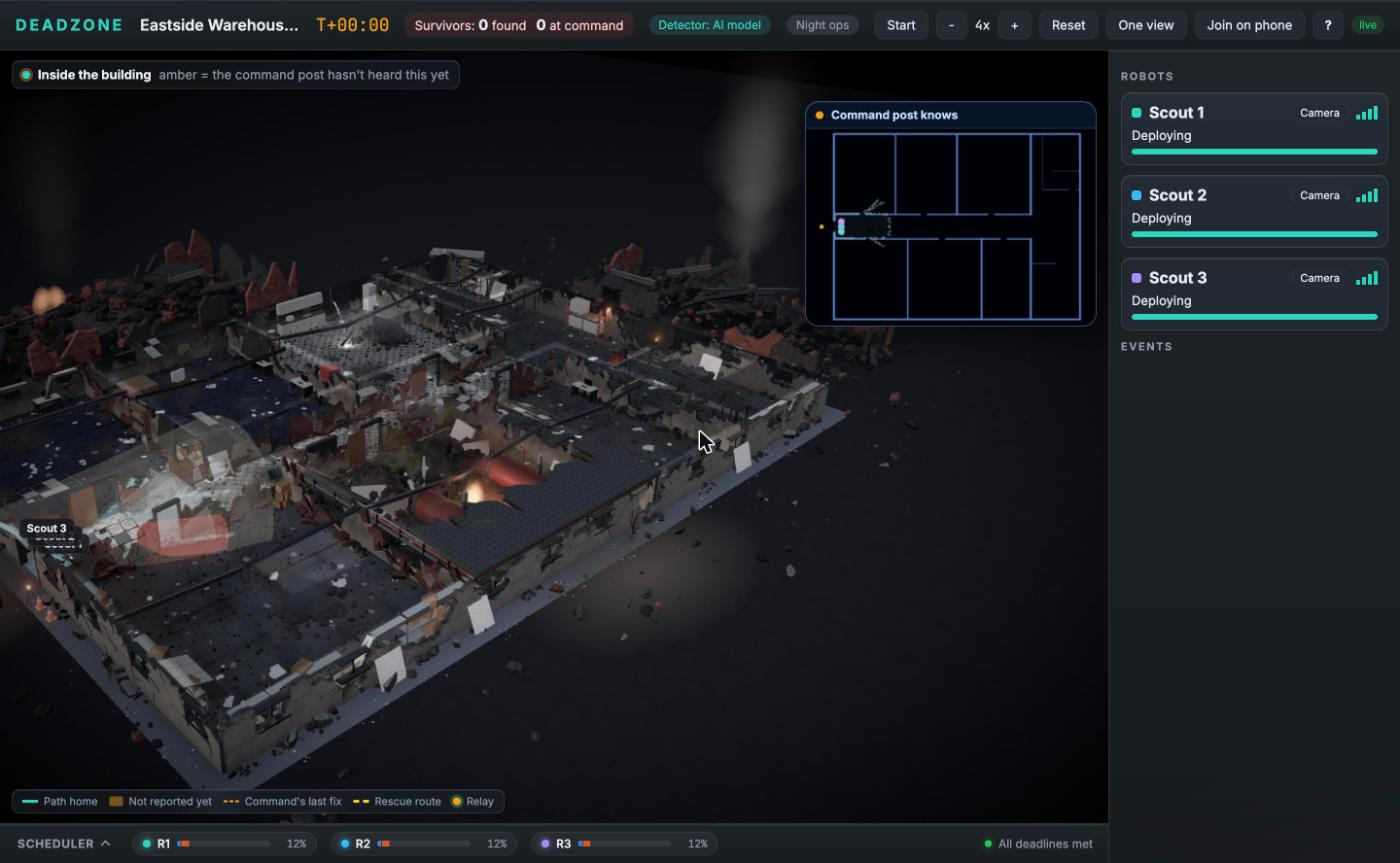
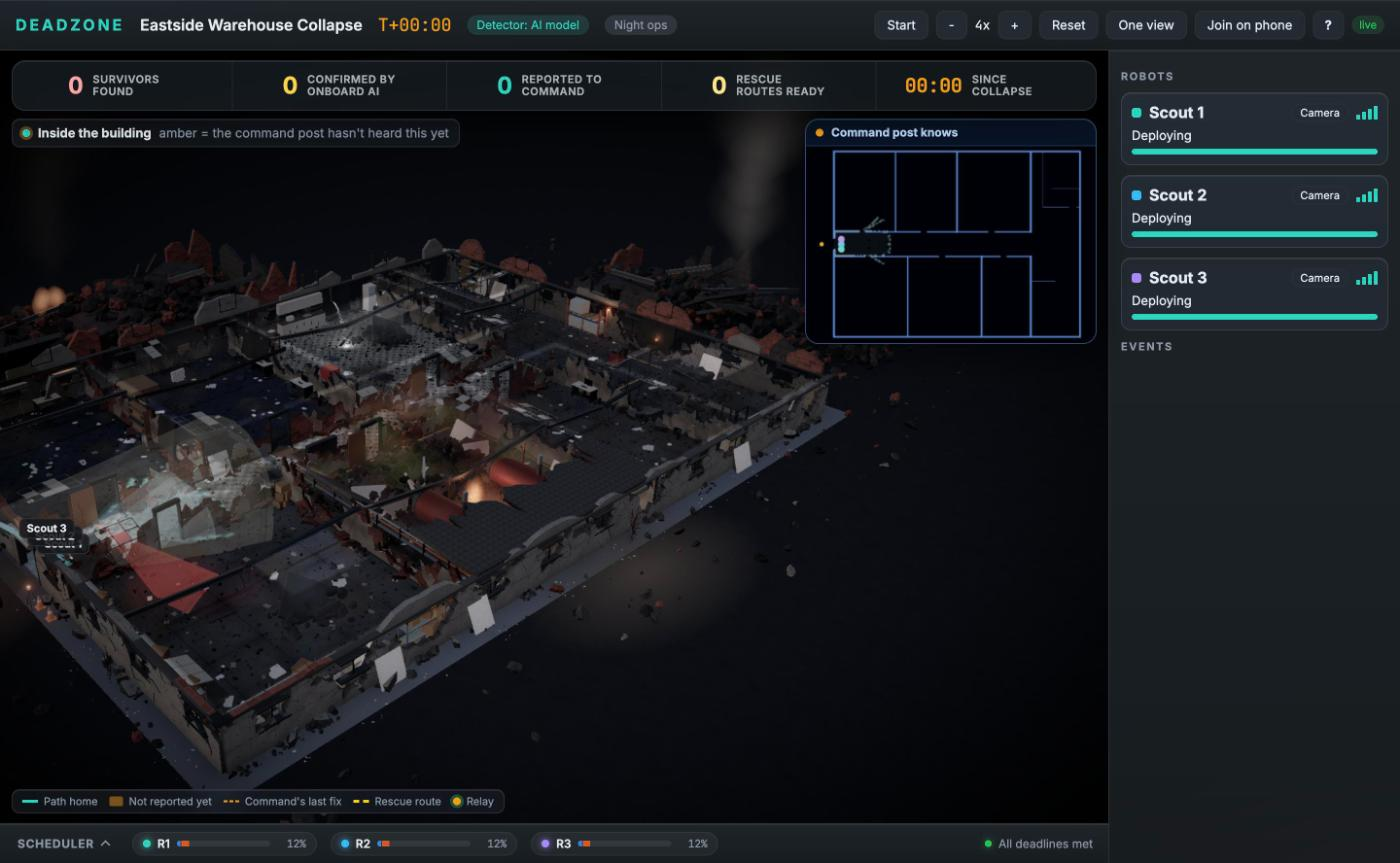
Exterior shell: upper-storey stubs, floor-slab lip, pancaked corner slab, street

diff --git a/web/src/three/Shell.jsx b/web/src/three/Shell.jsx
@@ -1,0 +1,142 @@
+import { useMemo } from 'react'
+import * as THREE from 'three'
+import { WALL_H, w2t } from './util'
+import { materials, tiledSet } from './textures'
+
+// The exterior shell: what tells you this was a bigger building. On top of the ground
+// floor's outer walls stand the stubs of an upper storey (jagged brick and concrete, tallest
+// at the far corners so the camera's view into the rooms from the south-west stays open), a
+// floor slab lip where the upper floor sheared off, one pancaked upper slab hanging off the
+// north-west corner onto the ruins outside, window frames still in the stubs, and a street
+// west of the lot. Visual only, outside the footprint or above WALL_H: the simulated ground
+// floor never changes. Derived from fp.size, so generated buildings get it too.
+
+function rng(seed) {
+  let s = (seed % 2147483647) || 1
+  return () => (s = (s * 16807) % 2147483647) / 2147483647
+}
+
+let M = null
+function mats() {
+  if (M) return M
+  const t = materials()
+  M = {
+    brick: new THREE.MeshStandardMaterial({ ...tiledSet(t.brick, 0.5, 0.5), color: '#c4b8ae', roughness: 0.93 }),
+    concrete: new THREE.MeshStandardMaterial({ ...tiledSet(t.concrete, 0.5, 0.5), color: '#b9b6b0', roughness: 0.9 }),
+    cut: new THREE.MeshStandardMaterial({ ...tiledSet(t.rubble, 0.7, 0.7), color: '#c6c0b6', roughness: 1 }),
+    slab: new THREE.MeshStandardMaterial({ ...tiledSet(t.rubble, 0.4, 0.4), color: '#cbc5bb', roughness: 0.93 }),
+    frame: new THREE.MeshStandardMaterial({ color: '#2b3036', metalness: 0.6, roughness: 0.45 }),
+    rebar: new THREE.MeshStandardMaterial({ color: '#7c3f1d', metalness: 0.6, roughness: 0.75 }),
+    line: new THREE.MeshStandardMaterial({ color: '#d9d9d4', roughness: 0.8 }),
+    kerb: new THREE.MeshStandardMaterial({ color: '#8d8f90', roughness: 0.9 }),
+  }
+  return M
+}
+
+// A storey stub: an extruded wall with a jagged top, in a wall-local frame (x along, y up).
+function stubGeometry(len, hMin, hMax, thick, seed) {
+  const r = rng(seed)
+  const s = new THREE.Shape()
+  s.moveTo(-len / 2, 0)
+  s.lineTo(len / 2, 0)
+  const n = Math.max(3, Math.round(len * 1.5))
+  let h = hMin + r() * (hMax - hMin)
+  for (let k = 0; k <= n; k++) {
+    const x = len / 2 - (k / n) * len
+    h = Math.max(hMin * 0.4, Math.min(hMax, h + (r() - 0.5) * 0.5))
+    s.lineTo(x, k === 0 || k === n ? Math.min(h, hMin * 0.6) : h)
+  }
+  s.lineTo(-len / 2, 0)
+  const g = new THREE.ExtrudeGeometry(s, { depth: thick, bevelEnabled: false })
+  g.translate(0, 0, -thick / 2)
+  return g
+}
+
+// Stub runs along each outer wall. Far sides (north, east) stand tall; the near sides keep low
+// so the overview still looks into the rooms.
+function stubRuns(W, H) {
+  const sides = [
+    { a: [0, H], b: [W, H], hMin: 0.9, hMax: 2.0, seed: 1 },   // north
+    { a: [W, 0], b: [W, H], hMin: 0.8, hMax: 1.8, seed: 2 },   // east
+    { a: [0, 0], b: [W, 0], hMin: 0.2, hMax: 0.7, seed: 3 },   // south, low
+    { a: [0, 0], b: [0, H], hMin: 0.2, hMax: 0.6, seed: 4 },   // west, low
+  ]
+  const runs = []
+  for (const sd of sides) {
+    const r = rng(sd.seed * 977)
+    const len = Math.hypot(sd.b[0] - sd.a[0], sd.b[1] - sd.a[1])
+    const ang = Math.atan2(sd.b[1] - sd.a[1], sd.b[0] - sd.a[0])
+    let t = 0.4 + r() * 1.5
+    while (t < len - 1) {
+      const seg = Math.min(len - 1 - t, 2 + r() * 4)
+      const gap = 0.6 + r() * 2.4
+      const corner = Math.min(t, len - (t + seg)) < 3 // corners survive taller
+      runs.push({ pos: w2t(sd.a[0] + (sd.b[0] - sd.a[0]) * ((t + seg / 2) / len), sd.a[1] + (sd.b[1] - sd.a[1]) * ((t + seg / 2) / len), WALL_H + 0.024),
+        ang, len: seg, hMin: sd.hMin * (corner ? 1.4 : 1), hMax: sd.hMax * (corner ? 1.4 : 1), brick: r() < 0.5, seed: Math.round(t * 100) + sd.seed })
+      t += seg + gap
+    }
+  }
+  return runs
+}
+
+export default function ExteriorShell({ fp }) {
+  const [W, H] = fp.size
+  const m = mats()
+  const runs = useMemo(() => stubRuns(W, H), [W, H])
+  const geoms = useMemo(() => runs.map((s) => stubGeometry(s.len, s.hMin, s.hMax, 0.26, s.seed)), [runs])
+  const r = useMemo(() => rng(W * 31 + H), [W, H])
+  // the pancaked upper slab: its inner edge on the north-west corner wall top, sloping down
+  // outward onto the ruins north of the building
+  const slabLen = 7
+  const slabAng = 0.55
+  return (
+    <group>
+      {/* floor-slab lip: where the upper floor sheared off, a thick edge all round */}
+      {[[W / 2, H, W + 0.6, 0], [W / 2, 0, W + 0.6, 0], [0, H / 2, H, Math.PI / 2], [W, H / 2, H, Math.PI / 2]].map(([x, y, len, rot], i) => (
+        <mesh key={i} position={w2t(x, y, WALL_H + 0.06)} rotation={[0, rot, 0]} material={m.slab} receiveShadow>
+          <boxGeometry args={[len, 0.09, 0.34]} />
+        </mesh>
+      ))}
+      {runs.map((s, i) => (
+        <group key={i} position={s.pos} rotation={[0, s.ang, 0]}>
+          <mesh geometry={geoms[i]} material={s.brick ? m.brick : m.concrete} castShadow receiveShadow />
+          {/* rebar out of the broken top */}
+          {[-0.3, 0.25].map((dx, k) => (
+            <mesh key={k} position={[dx * s.len, s.hMin * 0.8 + k * 0.2, 0]} rotation={[0.3 * (k ? -1 : 1), 0, 0.5 * (k ? 1 : -1)]} material={m.rebar}>
+              <cylinderGeometry args={[0.012, 0.012, 0.6, 5]} />
+            </mesh>
+          ))}
+          {/* a window frame that survived in the taller stubs */}
+          {s.hMax > 1.5 && s.len > 3 && (
+            <group position={[0, 0.5, 0]}>
+              {[-0.6, 0.6].map((dx) => <mesh key={dx} position={[dx, 0.45, 0]} material={m.frame}><boxGeometry args={[0.06, 0.9, 0.3]} /></mesh>)}
+              <mesh position={[0, 0, 0]} material={m.frame}><boxGeometry args={[1.26, 0.06, 0.3]} /></mesh>
+            </group>
+          )}
+        </group>
+      ))}
+      {/* pancaked upper slab off the north-west corner */}
+      <group position={w2t(3.5, H - 0.2, WALL_H + 0.9)} rotation={[-slabAng, 0, 0]}>
+        <mesh position={[0, 0, slabLen / 2 - 0.6]} material={m.slab} castShadow receiveShadow>
+          <boxGeometry args={[6.5, 0.26, slabLen]} />
+        </mesh>
+        {[-2.6, -1.1, 0.4, 1.9].map((dx, i) => (
+          <mesh key={i} position={[dx, -0.05, slabLen - 0.3]} rotation={[0.4 + i * 0.2, 0, (i % 2 ? 1 : -1) * 0.4]} material={m.rebar}>
+            <cylinderGeometry args={[0.012, 0.012, 0.8, 5]} />
+          </mesh>
+        ))}
+      </group>
+      {/* the street west of the lot: kerbs and a dashed centre line */}
+      {[-13.2, -21.2].map((x) => (
+        <mesh key={x} position={w2t(x, H / 2, 0.06)} material={m.kerb} receiveShadow>
+          <boxGeometry args={[0.3, 0.12, H + 40]} />
+        </mesh>
+      ))}
+      {Array.from({ length: Math.round((H + 36) / 3) }, (_, i) => (
+        <mesh key={i} position={w2t(-17.2, -18 + i * 3 + (r() - 0.5) * 0.1, 0.004)} rotation={[-Math.PI / 2, 0, 0]} material={m.line}>
+          <planeGeometry args={[0.14, 1.5]} />
+        </mesh>
+      ))}
+    </group>
+  )
+}

diff --git a/web/src/three/Building.jsx b/web/src/three/Building.jsx
@@ -12,6 +12,7 @@ import FracturedWalls from './Fracture'
 import { AtmosphereLive, AtmosphereStatic } from './Atmosphere'
 import { LitterStatic, ScannedDebris } from './Litter'
 import { CeilingLive, CeilingStatic } from './Ceiling'
+import ExteriorShell from './Shell'
 
 // Thermal palette for the robot's-eye view: everything cold reads as deep blue.
 const COLD = { floor: '#070b1f', wall: '#1d3a8a', wallGlow: '#0b1d5c' }
@@ -310,6 +311,7 @@ export default function Building({ thermal = false, blueprint = false, props = t
         {damage && <LitterStatic fp={fp} perf={perf} />}
         {damage && <ScannedDebris fp={fp} perf={perf} outside={!lite} />}
         {damage && <CeilingStatic fp={fp} />}
+        {damage && !lite && <ExteriorShell fp={fp} />}
       </Baked>
       {damage && <CollapseLive fp={fp} dust={!perf && !lite} />}
       {damage && !perf && !lite && <DisasterLive fp={fp} />}

diff --git a/docs/team/history/yusuf.md b/docs/team/history/yusuf.md
@@ -3,7 +3,7 @@
 Owns `web/`. Only Yusuf's sessions edit this file.
 
 ## Now
-- **Working on:** `p3/collapse-geometry`, final stretch per PLAN.md 12:20 AM: captions + judge labels + Rescue Status strip done; next earthquake v2 visuals + banners, generic props for unknown rooms, exterior shell. Dropped tonight: multi-story interior, voice UI, clinic map. PRs: #85 merged, #93 open (steps 2-6).
+- **Working on:** `p3/collapse-geometry`: Rayan's collapse list and the 12:20 AM final-stretch list are built (walls, ceiling, debris, night atmosphere, camera, rover loader, captions, judge labels, Rescue Status strip, earthquake v2, banners, generic props, exterior shell). PR #93 open for all of it after #85. Dropped: multi-story interior, voice UI, clinic map.
 - **Works on main:** M1–M8, replay, UI Steps 0–1 calm pass (#10, #16, #18, #20, #23, #24, #26, #27, #31, #35).
 - **In flight (not merged):** `p3/ai-scope`:
   - AI detection cards (frosted glass): Reality on `survivor_found` ("Person · 100%", "no link, holding the report") and `hotspot_rejected` (faded "Not a person · 0% · rejected"); Command on `survivor_reported` with the delivered record's `crop`. Image `/crops/<crop>`, thermal placeholder until the backend serves it.
@@ -16,6 +16,12 @@ Owns `web/`. Only Yusuf's sessions edit this file.
   - Truth survivors and decoys show only on the Reality pane (T). Never on Command. The UI renders actual robot state and never assumes a dispatch, fault or resume made a robot act.
 
 ## Log
+
+### 2026-11-08 12:05 · p3/collapse-geometry · Exterior shell: storey stubs, floor-slab lip, pancaked corner slab, street
+- **Did:** `web/src/three/Shell.jsx` (visual only, outside the footprint or above WALL_H, derived from `fp.size`): jagged brick and concrete stubs of an upper storey on the outer walls (tall on the far north and east sides and at the corners, low on the near sides so the overview still looks into the rooms), window frames left in the taller stubs, rebar out of the breaks, a thin floor-slab lip where the upper floor sheared off, a pancaked upper slab hanging off the north-west corner onto the ruins, and a street west of the lot (kerbs, dashed centre line). Mounted inside `Baked` on Reality panes only, not in the robot camera's copy. Shots: `docs/visuals/final-a-overview.jpg`, `final-f-street.jpg`. About 30 fps here with two WebGL tabs open; 55-60 with one.
+- **Contract changes:** none.
+- **Heads-up for others:** Rayan: that completes your 12:20 AM list for me. Everything is on PR #93 (after #85). Remaining for me if time allows: wire key N once Aziz posts the control, sound cues.
+- **Next:** PR #93 updated; dry-run fixes.
 
 ### 2026-11-08 11:50 · p3/collapse-geometry · Earthquake v2 visuals, banners, rumble; generic furnishing for any floor plan
 - **Did:**

diff --git a/docs/visuals/README.md b/docs/visuals/README.md
@@ -17,3 +17,7 @@ Step 4 so far: night by default, night sky photo, haze fog, grading and grain (P
 Steps 2+3: `after-3-a/b` were taken with Performance mode on (P was toggled in another tab); `after-3-c` is full quality. Full-quality retakes follow with the next commit.
 
 Final column: everything merged on `p3/collapse-geometry` with Rayan's damaged-plaster and cracked-floor sets, full quality, night, sim running (robots and tags differ from earlier columns).
+
+| F street (exterior shell) | `?cam=-26,9,8,8,1,-22,42` | | | | | ![](final-f-street.jpg) |
+
+Final-stretch additions (12:20 AM list): Rescue Status strip at the top, captions on every AI image, earthquake v2 (press A with `DZ_AFTERSHOCK=1`), generic furnishing on unknown floor plans (`?generic=1` to preview on the demo building), exterior shell (storey stubs, pancaked corner slab, street).
